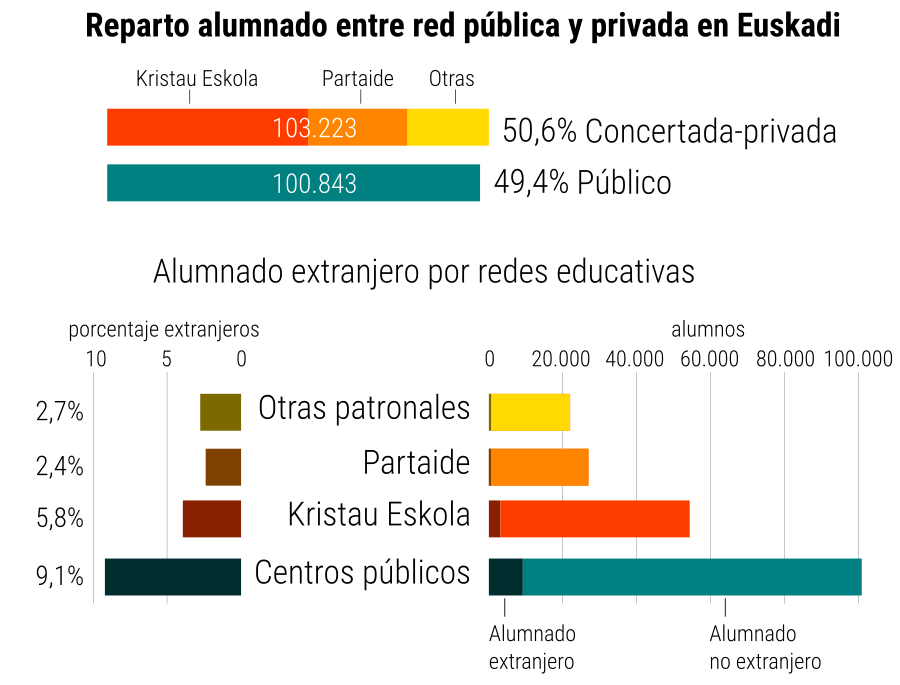
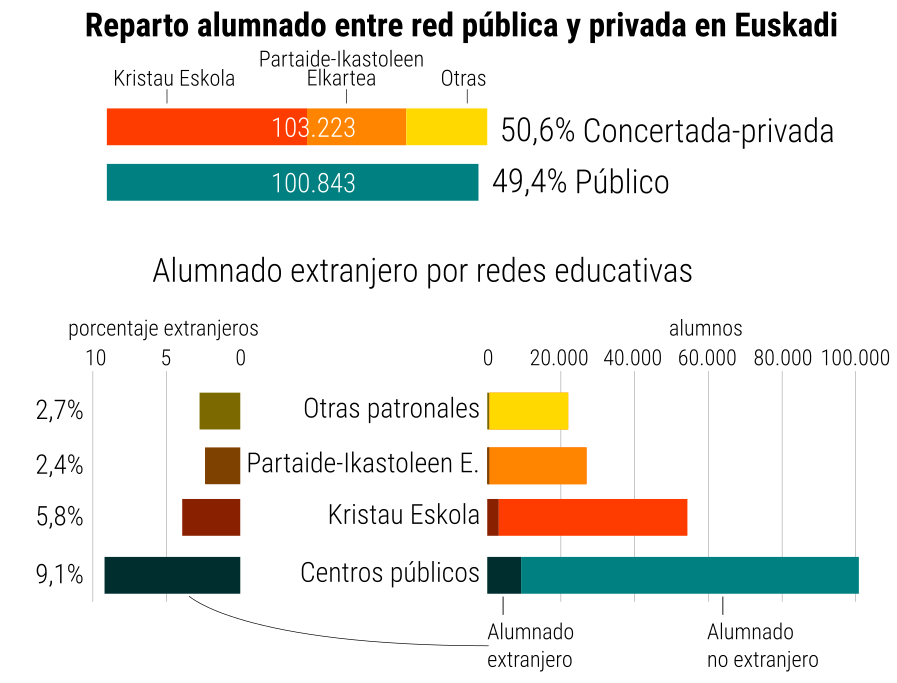
elimina de diagram. pendientes zonas sin privado. Añade Ikastoleen a Partaide

diff --git a/index.html b/index.html
@@ -124,11 +124,6 @@
 				<p><a href="https://www.ilpeskolainklusiboa.eus/">10.000 sinadura biltzeko kanpaina</a>.</p>
 				</div>
 		</div>
-		<div class="row vis-body">
-			<div class="col-md-6">
-				
-			</div>			
-		</div>
 	</section>
 
 	<section class="vis-item" id="indicadores">
@@ -139,7 +134,7 @@
 		</header>
 		<div class="row vis-body">
 			<div class="col-md-9">
-				<p>Cada línea representa una zona escolar. La inclinación de la pendiente indica la diferencia entre los porcentajes en las redes pública y provado-concertada. A más inclinación más diferencia. Pasa el cursor para descubrir más información.</p>
+				<p>Cada línea representa una zona escolar. La inclinación de la pendiente indica la diferencia entre los porcentajes en las redes pública y privado-concertada. Más inclinación indica más diferencia entre redes. Pasa el cursor para descubrir más información.</p>
 				<div class="legend">
 					<p><span class="square square_araba"></span>Araba</p>
 					<p><span class="square square_gipuzkoa"></span>Gipuzkoa</p>
@@ -150,7 +145,10 @@
 			<div class="clearfix"></div>
 			<div class="col-md-12">
 				<div id="vis"></div>
-				<p>Datos del curso 2014-2015. Los datos de alumnado becado son para todas las etapas. El de número de extranjeros para Educación básica (educación primaria y ESO).</p>
+			</div>
+			<div class="clearfix"></div>
+			<div class="col-md-9">
+				<p>Datos del curso 2014-2015. Los datos de alumnado becado son para todas las etapas. El de número de alumnado extranjero para Educación básica (educación primaria y ESO). Las zonas escolares de Montaña alavesa, Igorre y Basurto-Zorroza no aparecen representadas al no tener oferta privada.</p>
 				<p>Fuente de los datos: <a href="http://www.consejoescolardeeuskadi.hezkuntza.net/c/document_library/get_file?uuid=ea15c830-b320-4199-8a35-424f3060533e&groupId=17937">La educación Euskadi 2013-2015</a>. Consejo Escolar de Euskadi. Departamento de educación. Gobierno Vasco. Vitoria-Gasteiz, 2016.</p>
 			</div>
 		</div>
@@ -159,7 +157,7 @@
 	<section class="vis-item" id="otras">
 		<header class="row vis-head">
 			<div class="col-md-12">
-				<h1>Otras visualizaciones </h1>
+				<h1>Indicadores por separado</h1>
 			</div>
 		</header>
 		<div class="row vis-body">

diff --git a/style.css b/style.css
@@ -128,6 +128,10 @@ p {
 	margin-right:15px;
 }
 
+.Montaña-alavesa, .Basurto-Zorroza, .Igorre {
+	display:none;
+}
+
 .vis-item {
 	padding: 70px 0;
 }
@@ -209,9 +213,6 @@ figcaption {
 	margin: 0 0 2em 0;
 	font-size: 0.8em;
 }
-
-
-
 
 #bottom {
 	background-color: #f5f5f5;
